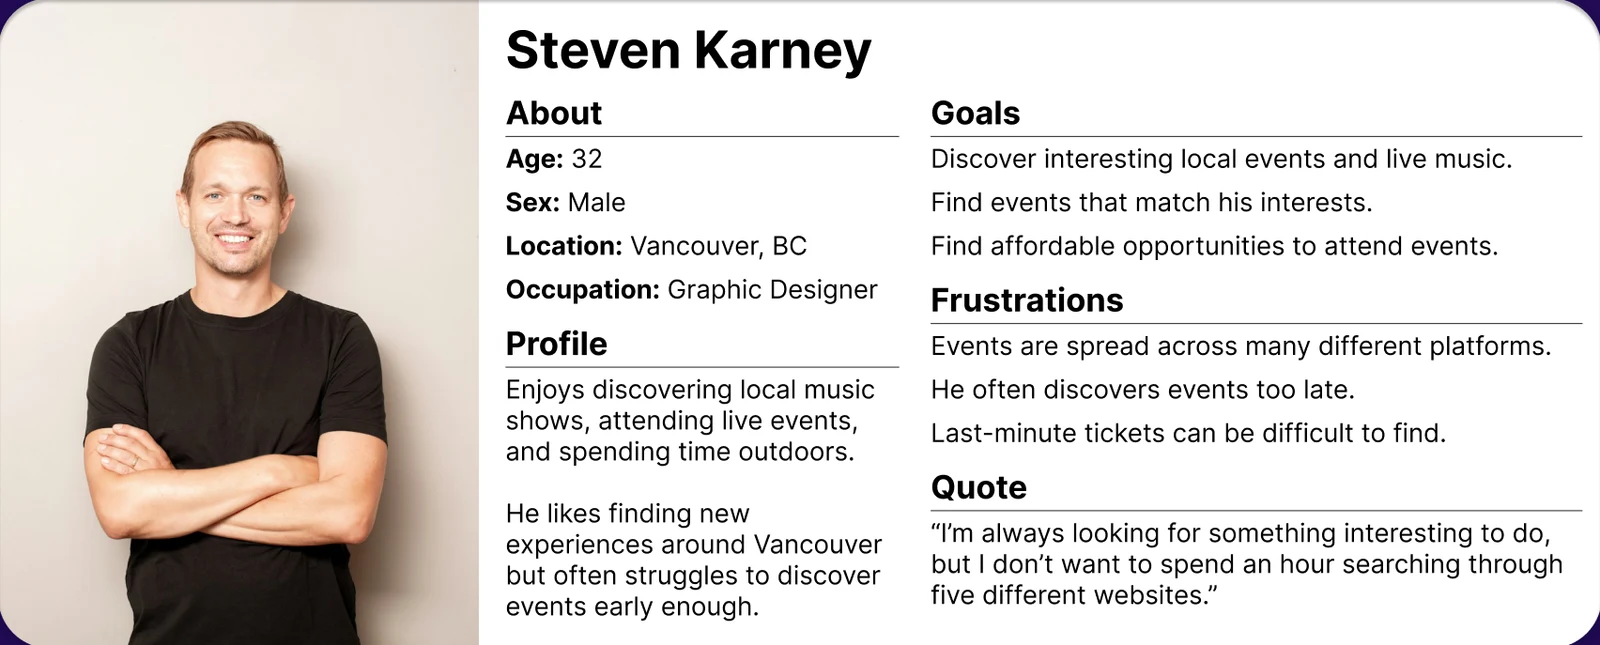
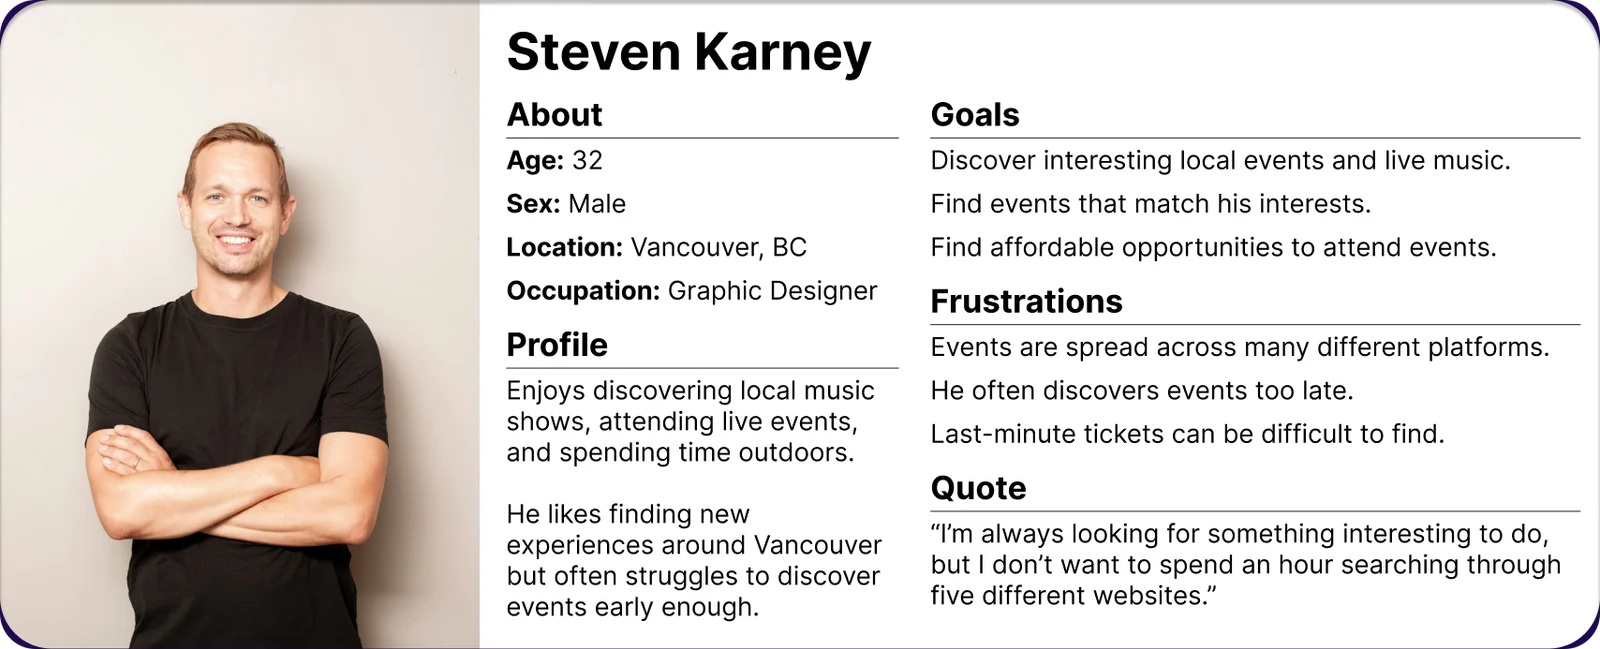
Stats centred, zoom only where useful, new Cookpad wireframes, LastCow kit
- Stat tiles: number and label centred in every tile
- Zoom only on mockups, small crops, page cards, wireframes and kits;
  heroes and personal or marketing photos are plain images
- Cookpad: four clean low fi wireframes (main, search, recipe, login)
- LastCow: persona cropped exactly to its card (no purple edge);
  UI kit shown as labelled component tiles from the design file

diff --git a/src/data/projects.ts b/src/data/projects.ts
@@ -16,6 +16,10 @@ export type Figure = {
   caption?: string
   /** Very tall page captures are shown in a scrollable frame. */
   tall?: boolean
+  /** No white frame or border: for images with their own rounded card shape. */
+  frameless?: boolean
+  /** Show a zoom button and open the image in the lightbox when clicked (mockups, small or detailed images). */
+  zoom?: boolean
   /** Large showcase image: full content width, framed to match its own dark background. */
   wide?: boolean
 }
@@ -48,6 +52,8 @@ export type Block =
   | { kind: 'walkthrough'; caption?: string; steps: { title: string; note: string; figure: Figure }[] }
   /** Website pages shown as small browser windows (top of each page; click to see all of it). */
   | { kind: 'pages'; caption?: string; items: { label: string; figure: Figure }[] }
+  /** UI kit: real components as labelled tiles in a grid (wide tiles span the full row). */
+  | { kind: 'kit'; items: { label: string; note: string; figure: Figure }[] }
   /** Embedded live Figma file, with an optional link to the interactive prototype. */
   | { kind: 'embed'; title: string; src: string; caption?: string; link?: { href: string; label: string }; variant?: 'phone' }
   /** Simple horizontal bar chart of percentages, with its source and what it means. */
@@ -130,6 +136,15 @@ const audit = (name: string, alt: string, height: number): Figure => ({
   width: 1600,
   height,
   tall: true,
+})
+
+/** A grayscale low fi Cookpad wireframe (SVG, 960 px wide) drawn by scripts/build-cookpad-wireframes.mjs. */
+const cwire = (name: string, alt: string, caption: string, height: number): Figure => ({
+  src: `/images/wireframes/cookpad-${name}.svg`,
+  alt,
+  caption,
+  width: 960,
+  height,
 })
 
 /** A clean UI export from the Cookpad frames in the Portfolio file (see scripts/prepare-cookpad.mjs). */
@@ -274,9 +289,18 @@ export const projects: Project[] = [
         blocks: [
           {
             kind: 'text',
-            body: ['I planned the layout around the user flow: a login modal, then the main page with its search, the search results, and the recipe page.'],
+            body: ['I planned the layout around the user flow: from the main page’s search, to the search results, to a recipe. A login modal opens over any page.'],
           },
-          { kind: 'figure', figure: cook('wireframes', 'Low fidelity wireframes for the login modal, main page, search page and recipe page.', 'Login modal → main page → search page → recipe page.', 1600, 762) },
+          {
+            // redrawn from the original wireframe frame by scripts/build-cookpad-wireframes.mjs
+            kind: 'gallery',
+            figures: [
+              cwire('main', 'Main page wireframe: logo and ingredient search, a category grid and popular recipes.', '1. Main page', 1240),
+              cwire('search', 'Search page wireframe: search bar with a filter button, sort options and a list of recipe results.', '2. Search results', 1120),
+              cwire('recipe', 'Recipe page wireframe: food photo beside the title and ingredients, numbered steps, point, comments and more recipes.', '3. Recipe page', 1360),
+              cwire('login', 'Login modal wireframe: email and password fields, a log in button and a sign up link.', 'Login modal', 720),
+            ],
+          },
         ],
       },
       {
@@ -502,15 +526,18 @@ export const projects: Project[] = [
             ],
           },
           {
-            // "Persona" slide (40:188) in the revised UX research slides, cropped to the card
+            // "Persona" slide (40:188) in the revised UX research slides, cropped exactly to the card (transparent corners)
             kind: 'figure',
-            figure: img(
-              'lastcow-persona',
-              'Persona card for Steven Karney, 32, male, a graphic designer in Vancouver, BC. Profile: enjoys local music shows, live events and the outdoors, but often struggles to discover events early enough. Goals: discover interesting local events and live music, find events that match his interests, find affordable ways to attend. Frustrations: events are spread across many platforms, he often discovers them too late, and last minute tickets are hard to find. Quote: “I’m always looking for something interesting to do, but I don’t want to spend an hour searching through five different websites.”',
-              'Persona: Steven Karney, built from the interview findings.',
-              1600,
-              645,
-            ),
+            figure: {
+              ...img(
+                'lastcow-persona',
+                'Persona card for Steven Karney, 32, male, a graphic designer in Vancouver, BC. Profile: enjoys local music shows, live events and the outdoors, but often struggles to discover events early enough. Goals: discover interesting local events and live music, find events that match his interests, find affordable ways to attend. Frustrations: events are spread across many platforms, he often discovers them too late, and last minute tickets are hard to find. Quote: “I’m always looking for something interesting to do, but I don’t want to spend an hour searching through five different websites.”',
+                'Persona: Steven Karney, built from the interview findings.',
+                1600,
+                649,
+              ),
+              frameless: true,
+            },
           },
         ],
       },
@@ -585,11 +612,16 @@ export const projects: Project[] = [
             ],
           },
           {
-            // the Atoms and Molecules sections of the design file's Components page
-            kind: 'gallery',
-            figures: [
-              img('lastcow-atoms', 'Atoms: input field states, the logo, the icon set and carousel and filter controls.', 'Atoms: inputs, logo, icons and controls.', 1368, 1055),
-              img('lastcow-molecules', 'Molecules: input field states, location drop down menu, tab bar menus, buttons in four styles and three sizes, list rows, profile card and event detail blocks.', 'Molecules: buttons, menus, drop down and event details.', 1600, 908),
+            // individual components from the design file's Components page (scripts/prepare-lastcow-kit.mjs)
+            kind: 'kit',
+            items: [
+              { label: 'Buttons', note: 'Atom · primary, secondary, dark and disabled, in three sizes', figure: { src: '/images/lastcow-kit/buttons.webp', alt: 'Buttons in four colour styles and three sizes.', width: 1600, height: 520 } },
+              { label: 'Input field', note: 'Atom · default, focused and error states', figure: { src: '/images/lastcow-kit/input.webp', alt: 'Input field in default, focused and error states, with an error message.', width: 800, height: 640 } },
+              { label: 'Location drop down', note: 'Molecule · closed and open', figure: { src: '/images/lastcow-kit/location.webp', alt: 'Location drop down, closed and open with a list of locations.', width: 800, height: 640 } },
+              { label: 'Event card', note: 'Molecule · image, name, date, price and price change', figure: { src: '/images/lastcow-kit/event-card.webp', alt: 'Event card with an image, name, date and location, price and 24 hour price change.', width: 800, height: 640 } },
+              { label: 'Ticket bar', note: 'Molecule · before and after purchase', figure: { src: '/images/lastcow-kit/ticket-bar.webp', alt: 'Ticket bar showing Get Tickets before purchase and My Tickets after.', width: 800, height: 520 } },
+              { label: 'Tab bar', note: 'Organism · home, saved, calendar and profile', figure: { src: '/images/lastcow-kit/menu-bar.webp', alt: 'Bottom tab bar with home, saved, calendar and profile icons, default and active.', width: 800, height: 520 } },
+              { label: 'Calendar', note: 'Organism · month view with the selected day', figure: { src: '/images/lastcow-kit/calendar.webp', alt: 'Month calendar for August 2026 with the 14th selected.', width: 800, height: 800 } },
             ],
           },
         ],
@@ -1088,7 +1120,7 @@ export const projects: Project[] = [
         blocks: [
           {
             kind: 'figure',
-            figure: { ...img('yoga-wireframe-home', 'Home page wireframe: hero, class styles, about and team sections.', 'Home page wireframe.', 1179, 2400), tall: true },
+            figure: { ...img('yoga-wireframe-home', 'Home page wireframe: hero, class styles, about and team sections.', 'Home page wireframe.', 1179, 2400), tall: true, zoom: true },
           },
         ],
       },
@@ -1140,7 +1172,7 @@ export const projects: Project[] = [
               'Gift card and call to action buttons',
             ],
           },
-          { kind: 'figure', figure: img('yoga-components', 'Component sheet: pricing cards, gift card, class style cards, teacher cards, schedule items, curriculum accordion, headers and footers.', 'Molecules from the component library.', 1600, 939) },
+          { kind: 'figure', figure: { ...img('yoga-components', 'Component sheet: pricing cards, gift card, class style cards, teacher cards, schedule items, curriculum accordion, headers and footers.', 'Molecules from the component library.', 1600, 939), zoom: true } },
         ],
       },
       {

diff --git a/src/components/CaseStudySection.tsx b/src/components/CaseStudySection.tsx
@@ -5,10 +5,15 @@ import { PlaceholderBlock } from './Editable'
 import { ZoomImage } from './Lightbox'
 import { Walkthrough } from './Walkthrough'
 
-function FigureView({ figure }: { figure: Figure }) {
-  const img = <ZoomImage figure={figure} />
+function FigureView({ figure, zoom = figure.zoom }: { figure: Figure; zoom?: boolean }) {
+  // only mockups, small crops and detailed images zoom; large photos are shown as they are
+  const img = zoom ? (
+    <ZoomImage figure={figure} />
+  ) : (
+    <img src={figure.src} alt={figure.alt} width={figure.width} height={figure.height} loading="lazy" decoding="async" />
+  )
   return (
-    <figure className={`cs-figure ${figure.tall ? 'cs-figure--tall' : ''} ${figure.wide ? 'cs-figure--wide' : ''}`}>
+    <figure className={`cs-figure ${figure.tall ? 'cs-figure--tall' : ''} ${figure.wide ? 'cs-figure--wide' : ''} ${figure.frameless ? 'cs-figure--frameless' : ''}`}>
       {figure.tall ? (
         // Long page captures scroll inside a frame instead of stretching the page.
         <div className="cs-figure__scroll" tabIndex={0} role="region" aria-label={`${figure.caption ?? 'Full page'} (scrollable)`}>
@@ -73,7 +78,7 @@ function BlockView({ block }: { block: Block }) {
       return (
         <div className={`cs-gallery cs-gallery--${Math.min(block.figures.length, 4)}`}>
           {block.figures.map((f) => (
-            <FigureView key={f.src} figure={f} />
+            <FigureView key={f.src} figure={f} zoom />
           ))}
         </div>
       )
@@ -134,7 +139,7 @@ function BlockView({ block }: { block: Block }) {
           </div>
           <div className="cs-feature__media">
             {block.figures.map((f) => (
-              <FigureView key={f.src} figure={f} />
+              <FigureView key={f.src} figure={f} zoom />
             ))}
           </div>
         </div>
@@ -158,6 +163,21 @@ function BlockView({ block }: { block: Block }) {
             </section>
           ))}
         </div>
+      )
+    case 'kit':
+      return (
+        <ul className="cs-kit">
+          {block.items.map((k) => (
+            // landscape tiles (e.g. the full button set) span the whole row
+            <li key={k.label} className={`cs-kit__item ${k.figure.width / k.figure.height > 2.5 ? 'cs-kit__item--wide' : ''}`}>
+              <div className="cs-kit__tile">
+                <ZoomImage figure={{ ...k.figure, caption: k.label }} />
+              </div>
+              <p className="cs-kit__label">{k.label}</p>
+              <p className="cs-kit__note">{k.note}</p>
+            </li>
+          ))}
+        </ul>
       )
     case 'pages':
       return (

diff --git a/src/styles/case-study.css b/src/styles/case-study.css
@@ -425,10 +425,14 @@
     padding: var(--s-3);
   }
 }
+/* every tile: number and label centred, at the same height across the row */
 .cs-stats > div {
   display: flex;
   flex-direction: column-reverse;
-  gap: 0.2rem;
+  justify-content: center;
+  align-items: center;
+  gap: 0.35rem;
+  text-align: center;
   padding: var(--s-4) var(--s-5);
   border-radius: var(--r-md);
   background: var(--p-surface);
@@ -1285,4 +1289,46 @@
   line-height: 1.15;
   color: var(--p-ink, var(--c-ink));
   overflow-wrap: anywhere;
+}
+
+/* images that already have their own rounded card shape (e.g. the LastCow persona) */
+.cs-figure--frameless .cs-figure__frame {
+  border: 0;
+  border-radius: var(--r-lg);
+  background: transparent;
+  box-shadow: var(--shadow-md);
+}
+
+/* kit: UI components as labelled white tiles */
+.cs-kit {
+  display: grid;
+  grid-template-columns: repeat(2, minmax(0, 1fr));
+  gap: clamp(1rem, 3vw, 1.5rem);
+  margin: 0;
+  padding: clamp(1rem, 3vw, 1.75rem);
+  border-radius: var(--r-lg);
+  background: var(--p-surface);
+  list-style: none;
+}
+@media (min-width: 900px) {
+  .cs-kit {
+    grid-template-columns: repeat(3, minmax(0, 1fr));
+  }
+}
+.cs-kit__item--wide {
+  grid-column: 1 / -1;
+}
+.cs-kit__tile {
+  overflow: hidden;
+  border-radius: var(--r-md);
+  background: #fff;
+  box-shadow: var(--shadow-sm);
+}
+.cs-kit__label {
+  margin-top: var(--s-2);
+  font-weight: 700;
+}
+.cs-kit__note {
+  font-size: var(--fs-xs);
+  color: var(--c-ink-soft);
 }

diff --git a/src/components/PhotoCollage.tsx b/src/components/PhotoCollage.tsx
@@ -1,7 +1,6 @@
 import type { CSSProperties } from 'react'
 import { about } from '../data/about'
 import { Tape } from './HandDrawnDecoration'
-import { ZoomImage } from './Lightbox'
 
 // Hand-picked tilts and nudges so the collage looks casually pinned
 // rather than randomly scattered (same values every render).
@@ -39,7 +38,7 @@ export function PhotoCollage({ className = '', only }: Props) {
           >
             <figure className="collage__polaroid">
               <Tape className="collage__tape" />
-              <ZoomImage figure={{ src: p.src, alt: p.alt, width: p.width, height: p.height, caption: p.caption }} />
+              <img src={p.src} alt={p.alt} width={p.width} height={p.height} loading="lazy" decoding="async" />
               <figcaption className="hand">{p.caption}</figcaption>
             </figure>
           </li>

diff --git a/src/components/CaseStudyLayout.tsx b/src/components/CaseStudyLayout.tsx
@@ -6,7 +6,6 @@ import { CaseStudySection } from './CaseStudySection'
 import { ContactCTA } from './ContactCTA'
 import { Editable } from './Editable'
 import { Underline } from './HandDrawnDecoration'
-import { ZoomImage } from './Lightbox'
 
 /** Highlights the table-of-contents entry for the section currently in view. */
 function useActiveSection(ids: string[]) {
@@ -119,7 +118,7 @@ export function CaseStudyLayout({ project }: { project: Project }) {
 
         <div className="container">
           <div className="cs-hero__media">
-            <ZoomImage figure={project.hero} eager />
+            <img src={project.hero.src} alt={project.hero.alt} width={project.hero.width} height={project.hero.height} fetchPriority="high" />
           </div>
         </div>
       </header>

diff --git a/src/components/AscloGallery.tsx b/src/components/AscloGallery.tsx
@@ -1,5 +1,4 @@
 import { asclo } from '../data/asclo'
-import { ZoomImage } from './Lightbox'
 
 /** Home-only gallery of side-job photo editing: heading, short summary, key facts, photos. */
 export function AscloGallery() {
@@ -26,7 +25,7 @@ export function AscloGallery() {
         <ul className="asclo__grid">
           {asclo.photos.map((p) => (
             <li key={p.src}>
-              <ZoomImage figure={{ src: p.src, alt: p.alt, width: asclo.width, height: asclo.height }} />
+              <img src={p.src} alt={p.alt} width={asclo.width} height={asclo.height} loading="lazy" decoding="async" />
             </li>
           ))}
         </ul>
